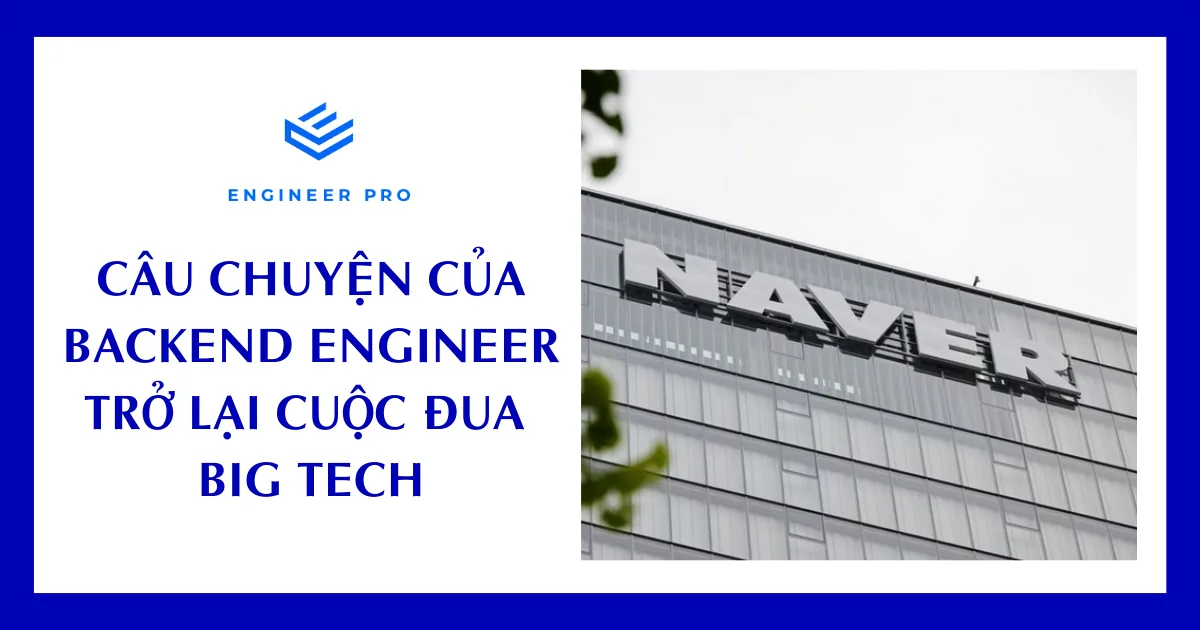
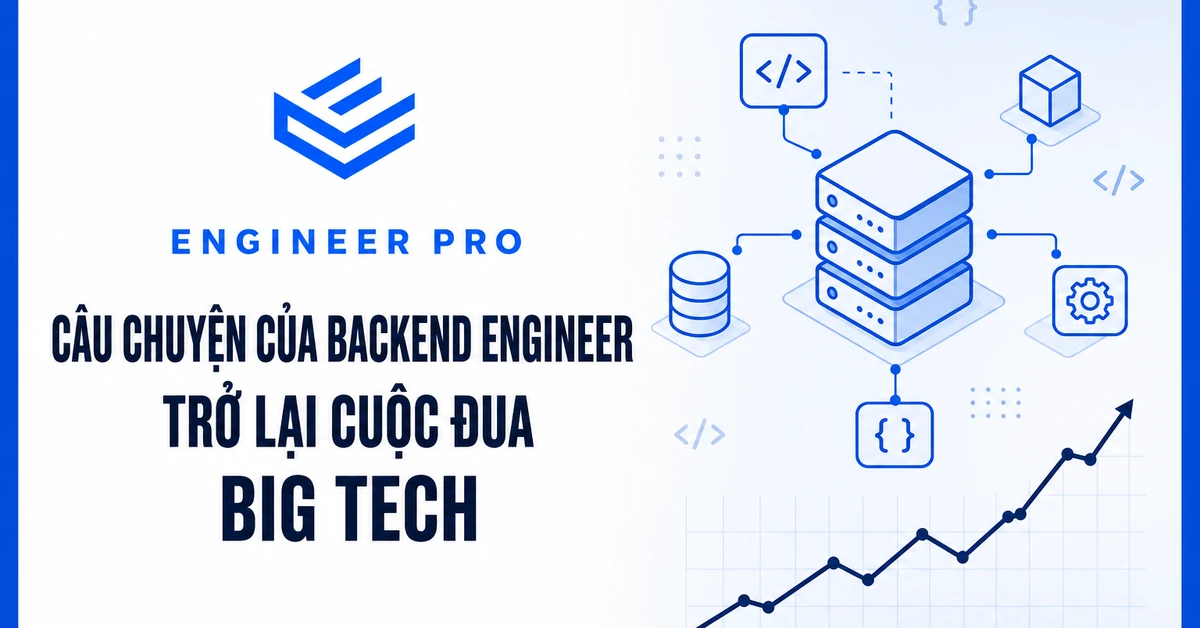
anh-quang-naver story: replace copyrighted cover with original artwork
The crawled cover had a real-world building photograph on the right
half that we don't have rights to. Regenerated the cover from
scratch (1200×628 webp) — clean editorial layout: EngineerPro logo
+ Vietnamese article title on the left, abstract isometric server
stack / code brackets / growth chart on the right. No photographs,
no third-party logos, no recognisable copyrighted material. Same
filename so all <img src> references + og:image absolute URLs keep
working without touching stories-data.js.

diff --git a/docs/stories/anh-quang-naver/index.html b/docs/stories/anh-quang-naver/index.html
@@ -35,7 +35,7 @@
     <meta property="og:image:secure_url" content="https://engineerprogurus.com/assets/img/stories/anh-quang-naver-img1.webp" />
     <meta property="og:image:type" content="image/webp" />
     <meta property="og:image:width" content="1200" />
-    <meta property="og:image:height" content="630" />
+    <meta property="og:image:height" content="628" />
     <meta property="og:image:alt" content="Phỏng Vấn “Hụt” Nhưng Không “Gục” - Câu Chuyện Của Backend Engineer Trở Lại Cuộc Đua Big Tech" />
     <meta property="og:locale" content="vi_VN" />
 
